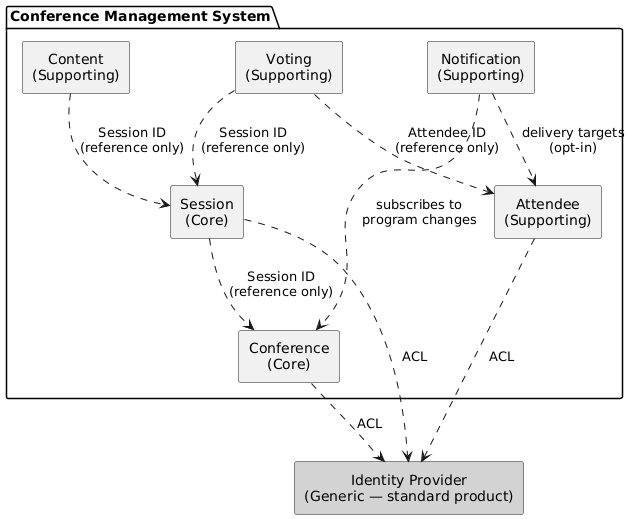
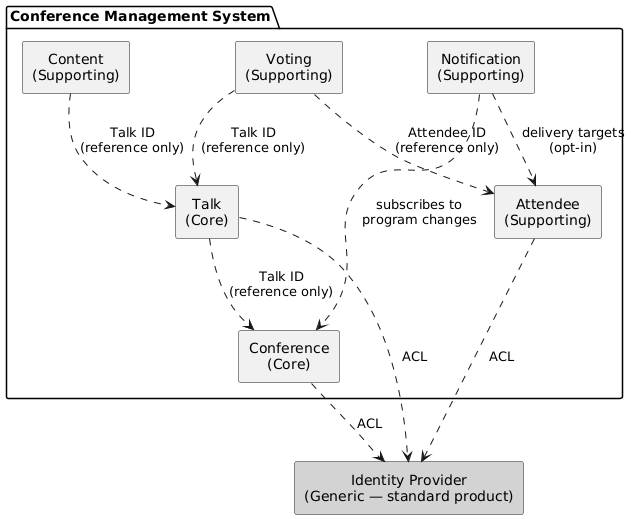
more renaming

diff --git a/docs/index.html b/docs/index.html
@@ -745,7 +745,7 @@ body.book #toc,body.book #preamble,body.book h1.sect0,body.book .sect1>h2{page-b
 </div>
 <div class="imageblock">
 <div class="content">
-<img src="images/technical-context.png" alt="technical context" width="1366" height="497">
+<img src="images/technical-context.png" alt="technical context" width="1342" height="497">
 </div>
 </div>
 </div>
@@ -781,7 +781,7 @@ body.book #toc,body.book #preamble,body.book h1.sect0,body.book .sect1>h2{page-b
 <td class="tableblock halign-left valign-top"><p class="tableblock">Managing conferences, rooms, time slots, and the conference program (scheduling).</p></td>
 </tr>
 <tr>
-<td class="tableblock halign-left valign-top"><p class="tableblock">Session</p></td>
+<td class="tableblock halign-left valign-top"><p class="tableblock">Talk</p></td>
 <td class="tableblock halign-left valign-top"><p class="tableblock">Core</p></td>
 <td class="tableblock halign-left valign-top"><p class="tableblock">Managing talks, speakers, abstracts, and tags. Talks are submitted and curated independently before being assigned to the conference program.</p></td>
 </tr>
@@ -838,8 +838,8 @@ body.book #toc,body.book #preamble,body.book h1.sect0,body.book .sect1>h2{page-b
 <td class="tableblock halign-left valign-top"><p class="tableblock">Custom implementation — core domain with conference-specific business rules.</p></td>
 </tr>
 <tr>
-<td class="tableblock halign-left valign-top"><p class="tableblock">Session</p></td>
-<td class="tableblock halign-left valign-top"><p class="tableblock">Session</p></td>
+<td class="tableblock halign-left valign-top"><p class="tableblock">Talk</p></td>
+<td class="tableblock halign-left valign-top"><p class="tableblock">Talk</p></td>
 <td class="tableblock halign-left valign-top"><p class="tableblock">Custom implementation — core domain with its own aggregate lifecycle (submit → review → accept).</p></td>
 </tr>
 <tr>
@@ -959,7 +959,7 @@ body.book #toc,body.book #preamble,body.book h1.sect0,body.book .sect1>h2{page-b
 <td class="tableblock halign-left valign-top"><p class="tableblock">Manages conferences, rooms, time slots, and the conference program. Owns the scheduling of talks to slots. References talks by ID only.</p></td>
 </tr>
 <tr>
-<td class="tableblock halign-left valign-top"><p class="tableblock">Session</p></td>
+<td class="tableblock halign-left valign-top"><p class="tableblock">Talk</p></td>
 <td class="tableblock halign-left valign-top"><p class="tableblock">Core</p></td>
 <td class="tableblock halign-left valign-top"><p class="tableblock">Manages talks, speakers, abstracts, and tags. Talks have their own lifecycle (submit → review → accept) independent of the conference program.</p></td>
 </tr>
@@ -999,7 +999,7 @@ body.book #toc,body.book #preamble,body.book h1.sect0,body.book .sect1>h2{page-b
 <div class="ulist">
 <ul>
 <li>
-<p><strong>ID references</strong> — contexts reference entities from other contexts by ID only (e.g. <code>SessionId</code>, <code>AttendeeId</code>). No shared domain models.</p>
+<p><strong>ID references</strong> — contexts reference entities from other contexts by ID only (e.g. <code>TalkId</code>, <code>AttendeeId</code>). No shared domain models.</p>
 </li>
 <li>
 <p><strong>Domain events</strong> — the Notification context subscribes to domain events from the Conference context (e.g. <code>ProgramChanged</code>) to trigger attendee notifications.</p>
@@ -1063,7 +1063,7 @@ body.book #toc,body.book #preamble,body.book h1.sect0,body.book .sect1>h2{page-b
 </tr>
 <tr>
 <td class="tableblock halign-left valign-top"><p class="tableblock">Context</p></td>
-<td class="tableblock halign-left valign-top"><p class="tableblock">The system consists of multiple bounded contexts (Conference, Session, Voting, Notification, Attendee, Content). A deployment strategy must be chosen that balances modularity, operational simplicity, and the ability to evolve the architecture over time.</p></td>
+<td class="tableblock halign-left valign-top"><p class="tableblock">The system consists of multiple bounded contexts (Conference, Talk, Voting, Notification, Attendee, Content). A deployment strategy must be chosen that balances modularity, operational simplicity, and the ability to evolve the architecture over time.</p></td>
 </tr>
 <tr>
 <td class="tableblock halign-left valign-top"><p class="tableblock">Decision</p></td>
@@ -1150,7 +1150,7 @@ body.book #toc,body.book #preamble,body.book h1.sect0,body.book .sect1>h2{page-b
 <p><strong>Debugging and traceability</strong> — bugs can be reproduced and analysed by inspecting the exact sequence of events that led to a given state.</p>
 </li>
 <li>
-<p><strong>Natural expressiveness in the domain model</strong> — domain events (<code>SessionProposed</code>, <code>SpeakerConfirmed</code>, …) are first-class citizens and directly reflect the ubiquitous language.</p>
+<p><strong>Natural expressiveness in the domain model</strong> — domain events (<code>TalkSubmitted</code>, <code>SpeakerConfirmed</code>, …) are first-class citizens and directly reflect the ubiquitous language.</p>
 </li>
 <li>
 <p><strong>Independent scaling</strong> — the read and write sides can be scaled separately; read models can be materialised in a query-optimised store (e.g. Redis, Elasticsearch).</p>

diff --git a/CLAUDE.md b/CLAUDE.md
@@ -17,7 +17,7 @@ dotnet restore
 
 # Run tests
 dotnet test
-dotnet test --filter "FullyQualifiedName~Session"   # Run a single test class or namespace
+dotnet test --filter "FullyQualifiedName~Talk"   # Run a single test class or namespace
 
 # Format code
 dotnet csharpier .
@@ -35,7 +35,7 @@ This is a .NET 10 / ASP.NET Core conference management system demonstrating **Cl
 There are two separate bounded contexts, each with its own layered stack:
 
 - **Conference** — manages conferences, rooms, schedules
-- **Session** — manages sessions, speakers, tags, abstracts
+- **Talk** — manages talks, speakers, tags, abstracts
 
 ### Layers (per bounded context)
 
@@ -44,9 +44,9 @@ API  ──►  Application  ──►  Domain
                   └──────►  Persistence (shared models + IDatabaseContext)
 ```
 
-- **Domain** projects contain aggregates, entities, and value objects. Strong typing is enforced via value objects (e.g. `SessionId`, `SpeakerId`, `GuidV7`, `SessionTitle`, `Abstract`).
+- **Domain** projects contain aggregates, entities, and value objects. Strong typing is enforced via value objects (e.g. `TalkId`, `SpeakerId`, `GuidV7`, `TalkTitle`, `Abstract`).
 - **Application** projects contain use cases and depend on `IDatabaseContext` from the shared Persistence project.
-- **ConferenceExample.Persistence** holds shared data models (`Session`, `Speaker`, `Conference`) and the `IDatabaseContext` interface.
+- **ConferenceExample.Persistence** holds shared data models (`Talk`, `Speaker`, `Conference`) and the `IDatabaseContext` interface.
 - **ConferenceExample.API** is the ASP.NET Core entry point. `ServiceCollectionExtensions` registers infrastructure; an in-memory `DatabaseContext` implements `IDatabaseContext`.
 
 ### Testing
